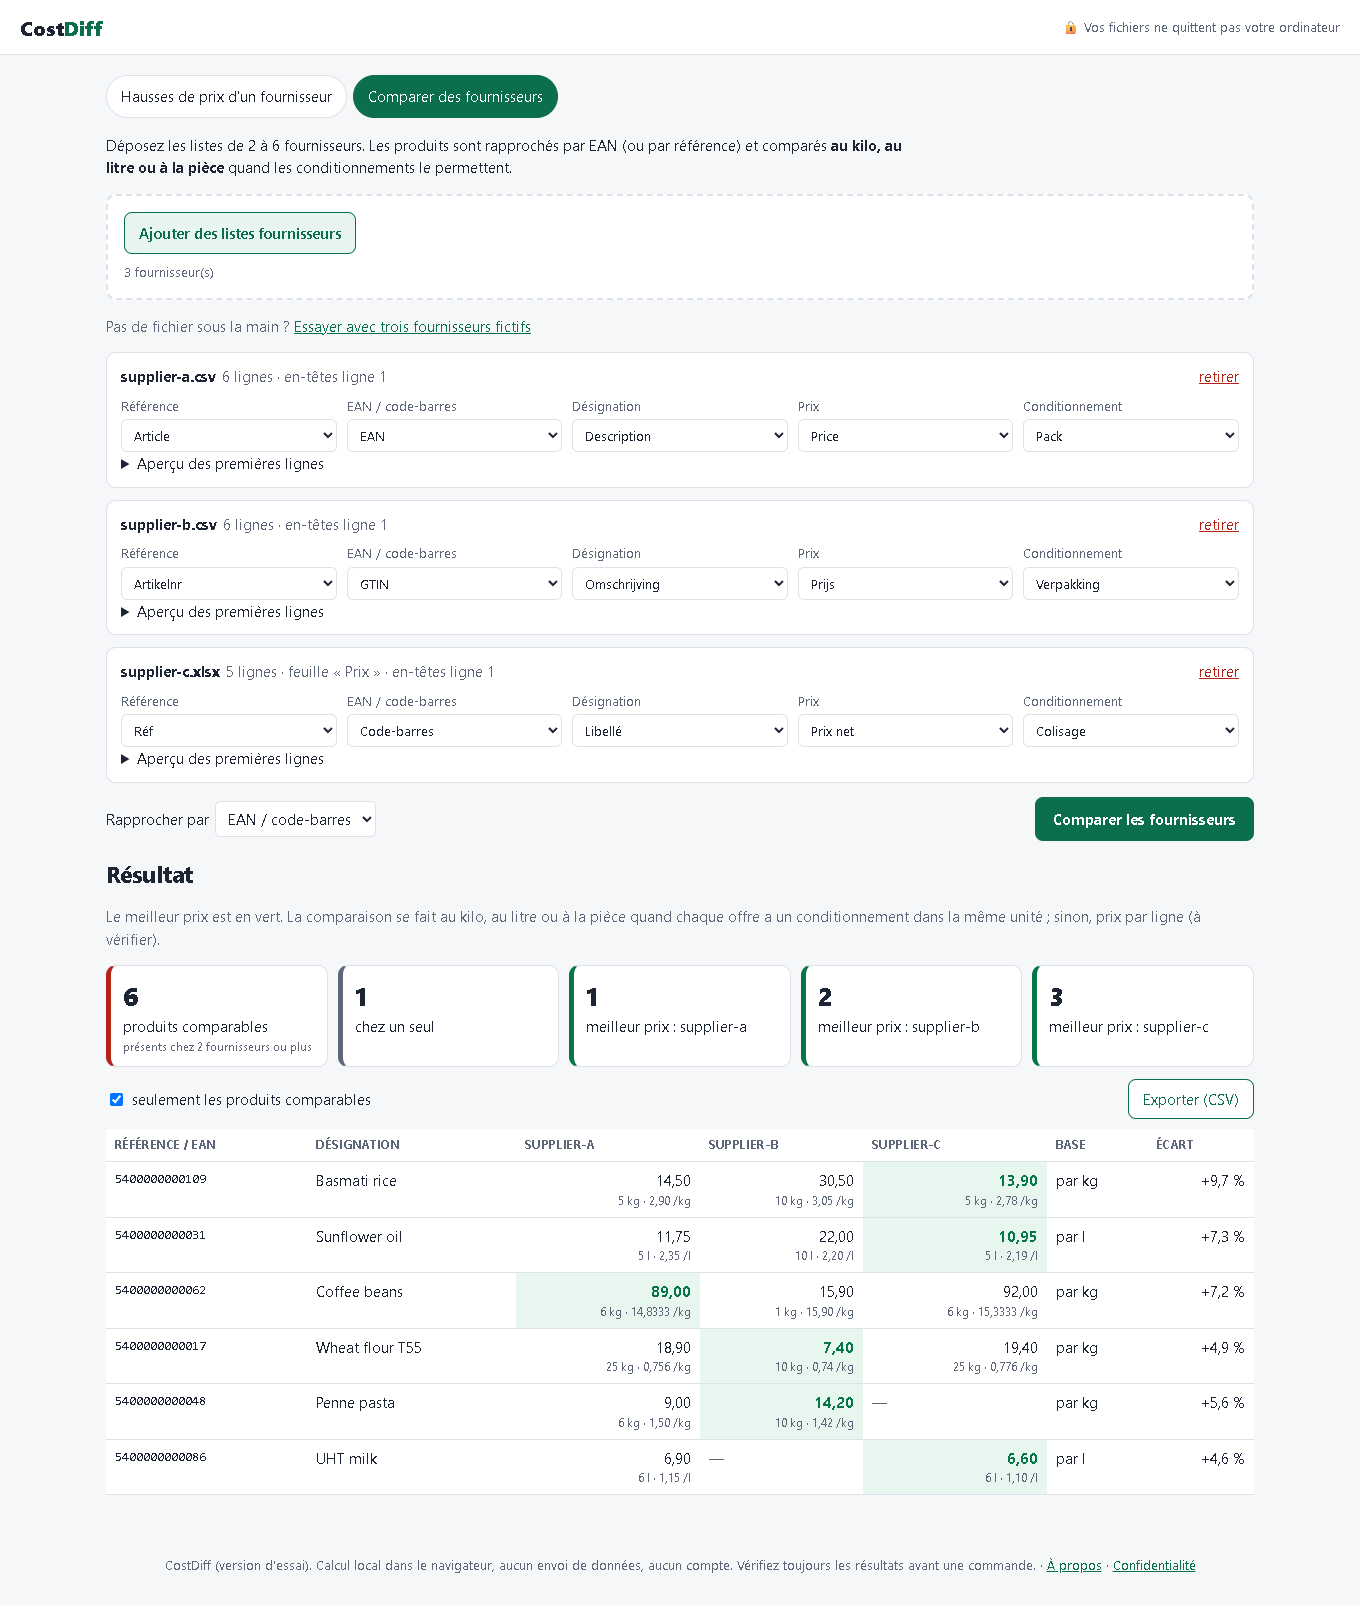
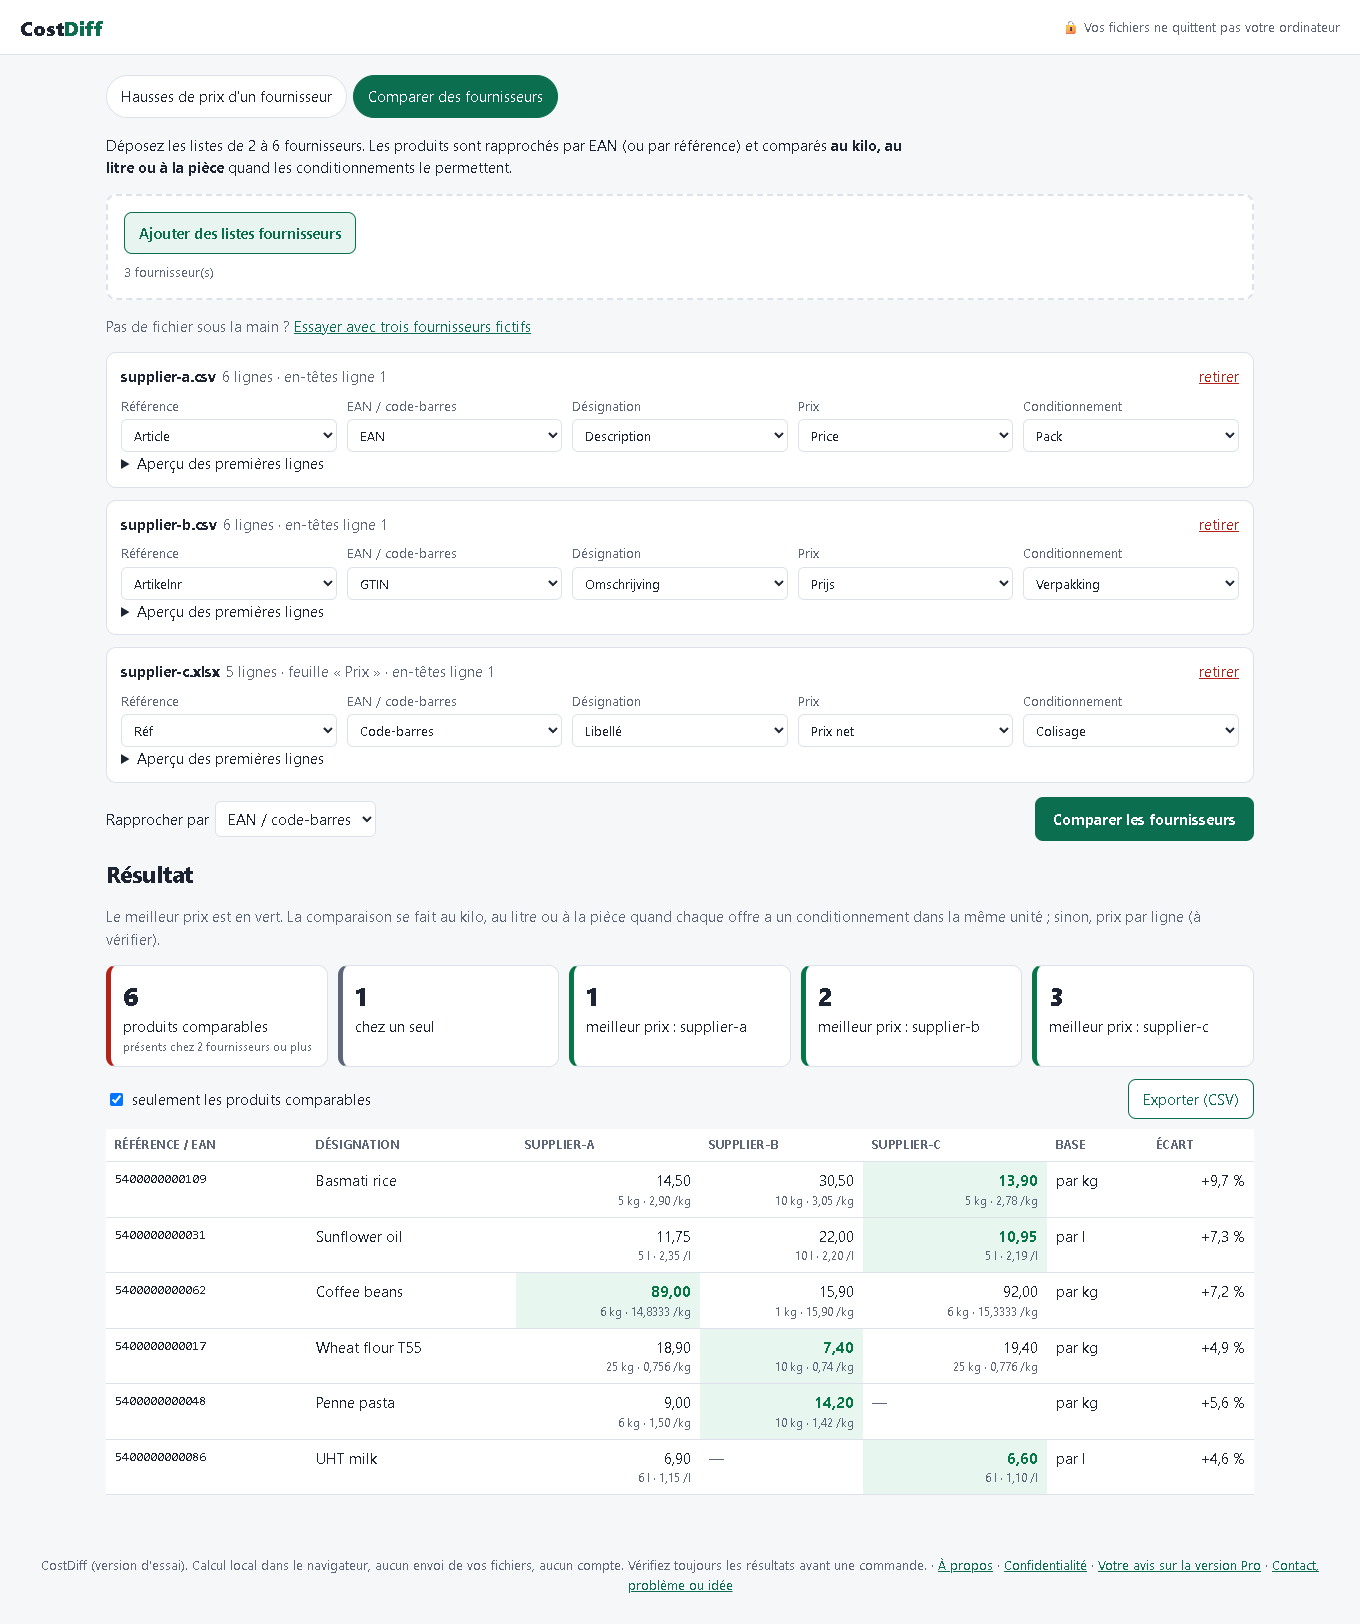
Usage statistics on (GoatCounter, cookieless, fixed events only); no-account contact path with 5 reasons (dedicated address); privacy page names the controller and the Gmail host

diff --git a/web/privacy.html b/web/privacy.html
@@ -3,7 +3,7 @@
 <head>
 <meta charset="utf-8">
 <meta name="viewport" content="width=device-width, initial-scale=1">
-<meta http-equiv="Content-Security-Policy" content="default-src 'self'; script-src 'self'; style-src 'self'; img-src 'self' data:; connect-src 'self'; object-src 'none'; base-uri 'none'; form-action 'none'">
+<meta http-equiv="Content-Security-Policy" content="default-src 'self'; script-src 'self'; style-src 'self'; img-src 'self' data: https://costdiff.goatcounter.com; connect-src 'self' https://costdiff.goatcounter.com; object-src 'none'; base-uri 'none'; form-action 'none'">
 <meta name="referrer" content="no-referrer">
 <title>Confidentialité · CostDiff</title>
 <meta name="description" content="CostDiff calcule tout dans votre navigateur : vos listes de prix ne sont jamais envoyées. Ce que la page mesure ou non, qui la publie et comment le contacter.">
@@ -20,8 +20,17 @@
   <p><strong>Vos listes de prix ne sont jamais envoyées.</strong> Les fichiers que vous déposez sont lus et comparés par votre navigateur. Aucun fichier, nom de fichier, ligne, prix, référence, EAN ou résultat n'est transmis à CostDiff ni à un tiers, y compris à l'outil de mesure d'audience décrit ci-dessous.</p>
 
   <!-- gen:stats -->
-  <h2>Mesure d'audience : pas encore active</h2>
-  <p>Aujourd'hui, CostDiff n'envoie aucune statistique : aucune requête n'est faite vers GoatCounter ni vers un autre service de mesure. Si la mesure est activée, elle utilisera <a href="https://www.goatcounter.com/help/privacy">GoatCounter</a>, un service sans cookie hébergé dans l'Union européenne, et cette page sera mise à jour avant l'activation.</p>
+  <h2>Mesure d'audience (GoatCounter)</h2>
+  <p>Pour savoir si CostDiff est utile, nous comptons les visites avec <a href="https://www.goatcounter.com/help/privacy">GoatCounter</a>, un service de statistiques sans cookie hébergé dans l'Union européenne (serveurs Hetzner en Finlande et en Allemagne).</p>
+  <p>Ce qui est envoyé, et rien d'autre :</p>
+  <ul>
+    <li>la page vue (présentation, outil, Pro, confidentialité), sans les paramètres de l'adresse ;</li>
+    <li>le site d'où vous venez (par exemple « www.google.com » ou le nom d'un forum), sans la page ni les termes de recherche ;</li>
+    <li>les étiquettes de campagne éventuelles d'un lien (par exemple <code>utm_source=forum</code>) ;</li>
+    <li>des événements de nom fixe : « fichier personnel lu », « fichier refusé », « exemples chargés », « comparaison terminée », « rapport exporté », « clic vers la page Pro », « clic vers le questionnaire », « clic sur le contact » (avec son motif : question, problème, suggestion, Pro, démonstration), en distinguant seulement vos fichiers des fichiers d'exemple.</li>
+  </ul>
+  <p>Comme tout serveur, GoatCounter reçoit votre adresse IP et l'identification de votre navigateur. D'après sa politique de confidentialité, il ne les conserve pas : il en déduit le pays, le navigateur et le système, et ne garde que des totaux ; un identifiant anonyme et temporaire, effacé après quelques heures, sert seulement à ne pas compter deux fois la même visite (l'enregistrement des vues individuelles est désactivé pour CostDiff). Aucun cookie et aucun stockage dans votre navigateur ne servent à la mesure. Fondement : l'intérêt légitime du responsable à savoir si l'outil est utilisé.</p>
+  <p>Vous pouvez désactiver la mesure pour votre navigateur en ouvrant <a href="index.html#nostats">cette adresse</a> (et la réactiver avec <a href="index.html#stats">celle-ci</a>). Ce choix est gardé dans le stockage local de votre navigateur.</p>
   <!-- /gen:stats -->
 
   <!-- gen:form -->
@@ -31,12 +40,12 @@
   <p>Les pages sont servies par GitHub Pages (GitHub, Inc.), qui peut enregistrer des journaux techniques de connexion (adresse IP, date, page demandée) ; voir la <a href="https://docs.github.com/fr/site-policy/privacy-policies/github-general-privacy-statement">déclaration de confidentialité de GitHub</a>. CostDiff n'a pas accès à ces journaux.</p>
 
   <!-- gen:publisher -->
-  <h2>Éditeur et contact</h2>
-  <p>CostDiff est publié par le titulaire du compte GitHub <a href="https://github.com/lukasdevahive">lukasdevahive</a>, à titre personnel (aucune société). L'éditeur ne traite lui-même aucune donnée personnelle : il n'y a ni compte, ni mesure d'audience, ni formulaire.</p>
-  <p>Contact : <a href="https://github.com/lukasdevahive/costdiff/issues">issues du dépôt GitHub</a> (publiques : n'y mettez pas vos tarifs).</p>
+  <h2>Responsable du traitement et contact</h2>
+  <p>Responsable du traitement : Lukas, à titre personnel (aucune société). Contact : <a href="mailto:lukas.cmpro@gmail.com" data-stat="contact-click">lukas.cmpro@gmail.com</a>.</p>
+  <p>Cette messagerie est hébergée par Google (Gmail), qui peut traiter les messages hors de l'Union européenne selon ses propres garanties (clauses contractuelles types). Les messages envoyés à cette adresse servent uniquement à vous répondre et sont supprimés au plus tard 12 mois après le dernier échange. Vous pouvez demander l'accès, la correction ou la suppression de vos données à cette adresse, et introduire une réclamation auprès de l'Autorité de protection des données (Belgique). Questions techniques : <a href="https://github.com/lukasdevahive/costdiff/issues">issues du dépôt GitHub</a> (publiques : n'y mettez pas vos tarifs).</p>
   <!-- /gen:publisher -->
 
-  <p class="note">Dernière mise à jour : 22 novembre 2026.</p>
+  <p class="note">Dernière mise à jour : 23 novembre 2026.</p>
 </main>
 <footer class="foot">CostDiff · version d'essai · <a href="index.html">Présentation</a> · <a href="app.html">Outil</a></footer>
 <script type="module" src="js/page.js"></script>

diff --git a/web/pro.html b/web/pro.html
@@ -3,7 +3,7 @@
 <head>
 <meta charset="utf-8">
 <meta name="viewport" content="width=device-width, initial-scale=1">
-<meta http-equiv="Content-Security-Policy" content="default-src 'self'; script-src 'self'; style-src 'self'; img-src 'self' data:; connect-src 'self'; object-src 'none'; base-uri 'none'; form-action 'none'">
+<meta http-equiv="Content-Security-Policy" content="default-src 'self'; script-src 'self'; style-src 'self'; img-src 'self' data: https://costdiff.goatcounter.com; connect-src 'self' https://costdiff.goatcounter.com; object-src 'none'; base-uri 'none'; form-action 'none'">
 <meta name="referrer" content="no-referrer">
 <title>CostDiff Pro (en préparation) : dites-nous ce qu'il vous faut</title>
 <meta name="description" content="CostDiff Pro est en préparation : mémoire des colonnes de chaque fournisseur, historique des tarifs, alertes. Dites-nous ce qui vous serait utile.">
@@ -39,8 +39,24 @@
     <p data-pro-fallback>Dites-nous ce qu'il vous faudrait : <a data-contact data-stat="contact-click" href="#" hidden></a><span data-contact-fallback>par une <a href="https://github.com/lukasdevahive/costdiff/issues" data-stat="contact-click">issue GitHub</a> (publique, compte GitHub nécessaire)</span>.</p>
     <p class="note" data-form-section hidden>Le questionnaire est hébergé par Tally (Belgique, Union européenne). Détails dans la page <a href="privacy.html">Confidentialité</a>.</p>
   </section>
+
+  <section class="box" id="contact">
+    <h2>Nous écrire</h2>
+    <div data-contact-list hidden>
+    <p>Sans compte : chaque lien ouvre votre messagerie avec un objet déjà rempli.</p>
+    <ul>
+      <li><a data-contact-subject="Demande de renseignements" data-stat="contact-question" href="#">Une question sur CostDiff</a></li>
+      <li><a data-contact-subject="Problème" data-stat="contact-bug" href="#">Signaler un problème</a> (dites-nous le format du fichier et ce qui s'affiche, sans joindre le fichier)</li>
+      <li><a data-contact-subject="Suggestion" data-stat="contact-idea" href="#">Proposer une amélioration</a></li>
+      <li><a data-contact-subject="Version Pro" data-stat="contact-pro" href="#">Être prévenu de la version Pro</a></li>
+      <li><a data-contact-subject="Démonstration" data-stat="contact-demo" href="#">Demander une démonstration</a> (15 minutes en visio, avec les fichiers d'exemple)</li>
+    </ul>
+    </div>
+    <p data-contact-fallback>Pour l'instant : une <a href="https://github.com/lukasdevahive/costdiff/issues" data-stat="contact-click">issue GitHub</a> (publique, compte GitHub nécessaire).</p>
+    <p class="note">Ne joignez jamais de tarif fournisseur ni de prix confidentiels. Vos messages servent uniquement à vous répondre (voir <a href="privacy.html">Confidentialité</a>).</p>
+  </section>
 </main>
-<footer class="foot">CostDiff · version d'essai · <a href="index.html">Présentation</a> · <a href="app.html">Outil</a> · <a href="privacy.html">Confidentialité</a></footer>
+<footer class="foot">CostDiff · version d'essai · <a href="index.html">Présentation</a> · <a href="app.html">Outil</a> · <a href="privacy.html">Confidentialité</a> · <a href="#contact">Contact</a></footer>
 <script type="module" src="js/page.js"></script>
 </body>
 </html>

diff --git a/web/index.html b/web/index.html
@@ -3,7 +3,7 @@
 <head>
 <meta charset="utf-8">
 <meta name="viewport" content="width=device-width, initial-scale=1">
-<meta http-equiv="Content-Security-Policy" content="default-src 'self'; script-src 'self'; style-src 'self'; img-src 'self' data:; connect-src 'self'; object-src 'none'; base-uri 'none'; form-action 'none'">
+<meta http-equiv="Content-Security-Policy" content="default-src 'self'; script-src 'self'; style-src 'self'; img-src 'self' data: https://costdiff.goatcounter.com; connect-src 'self' https://costdiff.goatcounter.com; object-src 'none'; base-uri 'none'; form-action 'none'">
 <meta name="referrer" content="no-referrer">
 <title>CostDiff — voir en 1 minute ce qui a augmenté dans le nouveau tarif fournisseur</title>
 <meta name="description" content="Comparez l'ancien et le nouveau tarif d'un fournisseur (Excel, CSV) : hausses, baisses, hausses cachées par le conditionnement. Gratuit, sans envoi de fichier.">
@@ -75,7 +75,7 @@
     <details class="box"><summary><strong>Que se passe-t-il pour une ligne illisible ?</strong></summary><p>Elle est écartée et listée (prix « sur demande », référence en double, ligne sans référence). CostDiff n'invente jamais un prix.</p></details>
   </section>
 </main>
-<footer class="foot">CostDiff · version d'essai · <a href="pro.html" data-stat="pro-page">Votre avis sur la version Pro</a> · <a href="privacy.html">Confidentialité</a> · <a href="https://github.com/lukasdevahive/costdiff/issues">Bug ou idée (GitHub)</a> · <a href="https://github.com/lukasdevahive/costdiff">Code source</a></footer>
+<footer class="foot">CostDiff · version d'essai · <a href="pro.html" data-stat="pro-page">Votre avis sur la version Pro</a> · <a href="privacy.html">Confidentialité</a> · <a href="pro.html#contact">Contact</a> · <a href="https://github.com/lukasdevahive/costdiff">Code source</a></footer>
 <script type="module" src="js/page.js"></script>
 </body>
 </html>

diff --git a/web/app.html b/web/app.html
@@ -3,7 +3,7 @@
 <head>
 <meta charset="utf-8">
 <meta name="viewport" content="width=device-width, initial-scale=1">
-<meta http-equiv="Content-Security-Policy" content="default-src 'self'; script-src 'self'; style-src 'self'; img-src 'self' data:; connect-src 'self'; object-src 'none'; base-uri 'none'; form-action 'none'">
+<meta http-equiv="Content-Security-Policy" content="default-src 'self'; script-src 'self'; style-src 'self'; img-src 'self' data: https://costdiff.goatcounter.com; connect-src 'self' https://costdiff.goatcounter.com; object-src 'none'; base-uri 'none'; form-action 'none'">
 <meta name="referrer" content="no-referrer">
 <title>CostDiff — comparer des listes de prix fournisseurs</title>
 <meta name="description" content="Outil gratuit : hausses de prix entre deux tarifs fournisseurs (Excel, CSV) et fournisseur le moins cher au kilo. Calcul dans votre navigateur.">
@@ -68,7 +68,7 @@
 
 <footer class="foot">
   CostDiff (version d'essai). Calcul local dans le navigateur, aucun envoi de vos fichiers, aucun compte. Vérifiez toujours les résultats avant une commande.
-  · <a href="index.html">À propos</a> · <a href="privacy.html">Confidentialité</a> · <a href="pro.html" data-stat="pro-page">Votre avis sur la version Pro</a> · <a href="https://github.com/lukasdevahive/costdiff/issues">Signaler un problème (GitHub)</a>
+  · <a href="index.html">À propos</a> · <a href="privacy.html">Confidentialité</a> · <a href="pro.html" data-stat="pro-page">Votre avis sur la version Pro</a> · <a href="pro.html#contact">Contact, problème ou idée</a>
 </footer>
 <script type="module" src="js/app.js"></script>
 </body>

diff --git a/web/js/config.js b/web/js/config.js
@@ -2,16 +2,16 @@
 // every page), never by hand: an endpoint missing from the CSP would be blocked by the browser.
 
 /** GoatCounter site code ("costdiff" -> https://costdiff.goatcounter.com/count). Empty = statistics off. */
-export const GOATCOUNTER = "";
+export const GOATCOUNTER = "costdiff";
 
 /** Public form for the Pro interest survey (https://tally.so/r/...). Empty = the survey button is hidden. */
 export const PRO_FORM_URL = "";
 
 /** Dedicated contact address shown on the pages (never a personal one). Empty = GitHub issues link. */
-export const CONTACT_EMAIL = "";
+export const CONTACT_EMAIL = "lukas.cmpro@gmail.com";
 
 /** Name published as data controller in privacy.html (chosen by the founder). Required before statistics or the survey. */
-export const CONTROLLER = "";
+export const CONTROLLER = "Lukas";
 
 /** Only these hosts send statistics: local development and previews are never counted. */
 export const PROD_HOSTS = ["lukasdevahive.github.io"];

diff --git a/web/js/page.js b/web/js/page.js
@@ -12,5 +12,11 @@ for (const n of document.querySelectorAll("[data-form-section]")) n.hidden = !PR
 if (CONTACT_EMAIL) {
   for (const a of document.querySelectorAll("[data-contact]")) { a.href = `mailto:${CONTACT_EMAIL}`; a.textContent = CONTACT_EMAIL; a.hidden = false; }
   for (const n of document.querySelectorAll("[data-contact-fallback]")) n.hidden = true;
+  // one link per reason, with a prefilled subject; the body reminds people not to attach price lists
+  const body = ["Bonjour,", "", "", "", "(Merci de ne joindre aucun tarif fournisseur ni prix confidentiel.)"].join("\r\n");
+  for (const a of document.querySelectorAll("[data-contact-subject]")) {
+    a.href = `mailto:${CONTACT_EMAIL}?subject=${encodeURIComponent("CostDiff : " + a.dataset.contactSubject)}&body=${encodeURIComponent(body)}`;
+  }
+  for (const n of document.querySelectorAll("[data-contact-list]")) n.hidden = false;
 }
 wirePage();

diff --git a/web/404.html b/web/404.html
@@ -3,7 +3,7 @@
 <head>
 <meta charset="utf-8">
 <meta name="viewport" content="width=device-width, initial-scale=1">
-<meta http-equiv="Content-Security-Policy" content="default-src 'self'; script-src 'self'; style-src 'self'; img-src 'self' data:; connect-src 'self'; object-src 'none'; base-uri 'none'; form-action 'none'">
+<meta http-equiv="Content-Security-Policy" content="default-src 'self'; script-src 'self'; style-src 'self'; img-src 'self' data: https://costdiff.goatcounter.com; connect-src 'self' https://costdiff.goatcounter.com; object-src 'none'; base-uri 'none'; form-action 'none'">
 <meta name="referrer" content="no-referrer">
 <meta name="robots" content="noindex">
 <title>Page introuvable · CostDiff</title>

diff --git a/web/js/stats.js b/web/js/stats.js
@@ -18,6 +18,11 @@ export const EVENTS = Object.freeze({
   "pro-page": "Clic vers la page Pro",
   "pro-form": "Clic vers le questionnaire Pro",
   "contact-click": "Clic sur le contact",
+  "contact-question": "Contact : demande de renseignements",
+  "contact-bug": "Contact : signalement d'un problème",
+  "contact-idea": "Contact : suggestion",
+  "contact-pro": "Contact : intérêt pour la version Pro",
+  "contact-demo": "Contact : demande de démonstration",
 });
 
 const PAGES = new Set(["/", "/index.html", "/app.html", "/privacy.html", "/pro.html", "/404.html"]);
